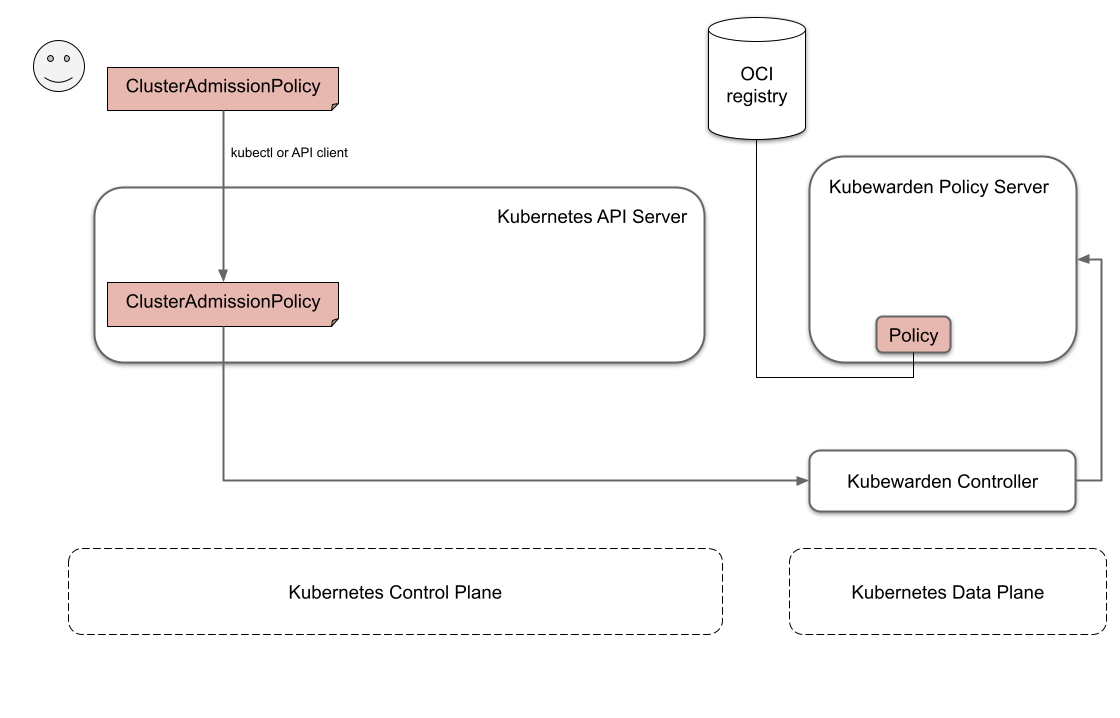
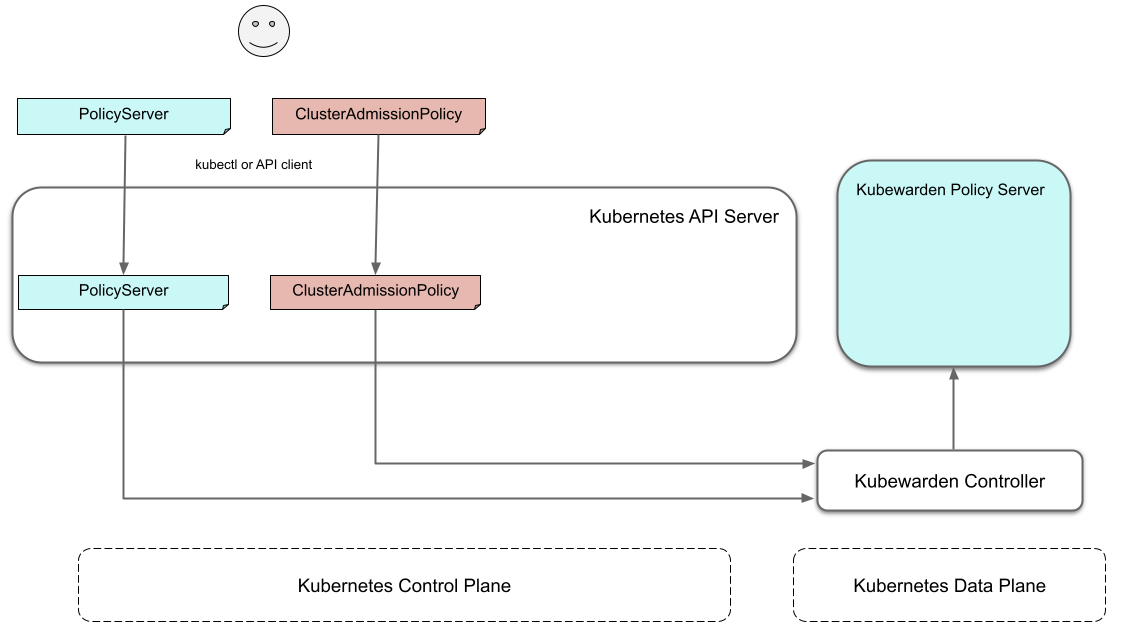
Update the "architecture" section
- architecture section
- architecture new images

diff --git a/src/architecture.md b/src/architecture.md
@@ -41,19 +41,14 @@ the Kubewarden stack:
 The architecture diagram from above can be intimidating at first, this
 section explains it step by step.
 
-### Defining the first policy
+### Default Policy Server
 
-On a fresh new cluster, the only Kubewarden components defined are its Custom
-Resources and the `kubewarden-controller` Deployment.
-
-This chart shows what happens when the first policy is defined inside of the
-cluster:
+On a fresh new cluster, the Kubewarden components defined are its Custom
+Resources, the `kubewarden-controller` Deployment and a default `PolicyServer`.
 
 ![Defining the first ClusterAdmissionPolicy resource](/images/architecture_sequence_01.png)
 
-`kubewarden-controller` notices the new `ClusterAdmissionPolicy` resource and,
-as a result of that, it initializes the `policy-server` component.
-
+`kubewarden-controller` notices the default `PolicyServer` resource and, as a result of that, it initializes the `policy-server` component.
 As stated above, Kubewarden works as a Kubernetes Admission Webhook. Kubernetes
 dictates that all the Webhook endpoints must be secured with TLS.
 `kubewarden-controller` takes care of setting up this secure communication
@@ -61,19 +56,29 @@ by doing these steps:
 
 1. Generate a self-signed Certificate Authority
 1. Use this CA to generate a TLS certificate and a TLS key for the
-  `policy-server` Service.
+   `policy-server` Service.
 
 All these objects are stored into Kubernetes as Secret resources.
-
-`kubewarden-controller` then creates a ConfigMap that
-holds the configuration of `policy-server`. This configuration includes
-the policy defined inside of the `ClusterAdmissionPolicy` resource.
 
 Finally, `kubewarden-controller` will create the `policy-server`
 Deployment and a Kubernetes ClusterIP Service to expose it inside of
 the cluster network.
 
-### Initialization of `policy-server`
+### Defining the first policy
+
+This chart shows what happens when the first policy bounded to the default `policy-server` is defined inside of the
+cluster:
+
+![Defining the first ClusterAdmissionPolicy resource](/images/architecture_sequence_02.png)
+
+`kubewarden-controller` notices the new `ClusterAdmissionPolicy` resource and,
+as a result of that, it finds the bounded `PolicyServer` and reconciles it.
+
+### Reconciliation of `policy-server`
+
+When a `ClusterAdmissionPolicy` is created, modified or deleted a reconciliation loop for the `PolicyServer` is
+triggered inside the `kubewarden-controller`. In this reconciliation loop, a ConfigMap with all the polices bounded to 
+this `PolicyServer` is created. Then the `policy-server` is updated with the new configuration.
 
 At start time, `policy-server` reads its configuration and downloads
 all the Kubewarden policies. Policies can be downloaded from remote
@@ -105,7 +110,7 @@ naming convention: `/validate/<policy ID>`.
 This is how the cluster looks like once the initialization of `policy-server`
 is completed:
 
-![policy-server initialized](/images/architecture_sequence_02.png)
+![policy-server initialized](/images/architecture_sequence_03.png)
 
 ### Making Kubernetes aware of the policy
 
@@ -114,7 +119,7 @@ The `policy-server` Pods have a
 `kubewarden-controller` relies on that to know when the `policy-server` Deployment
 is ready to evaluate admission reviews.
 
-Once the `policy-server` Deployed is marked as `Ready`, `kubewarden-controller`
+Once the `policy-server` Deployment is marked as `Ready`, `kubewarden-controller`
 will make the Kubernetes API server aware of the new policy by creating either a
 `MutatingWebhookConfiguration` or a `ValidatingWebhookConfiguration`
 object.
@@ -123,14 +128,14 @@ Each policy has its dedicated `MutatingWebhookConfiguration`/`ValidatingWebhookC
 which points to the Webhook endpoint served by `policy-server`. The endpoint
 is reachable by the `/validate/<policy ID>` URL mentioned before.
 
-![Kubernetes Webhook endpoint configuration](/images/architecture_sequence_03.png)
+![Kubernetes Webhook endpoint configuration](/images/architecture_sequence_04.png)
 
 ### Policy in action
 
 Now that all the plumbing has been done, Kubernetes will start sending the
 relevant Admission Review requests to the right `policy-server` endpoint.
 
-![Policy in action](/images/architecture_sequence_04.png)
+![Policy in action](/images/architecture_sequence_05.png)
 
 `policy-server` receives the Admission Request object and, based on the
 endpoint that received the request, uses the right policy to evaluate it.
@@ -141,17 +146,26 @@ policy (the "guest") is done using the waPC communication protocol. This is
 covered in depth inside of [this](/writing-policies/index.html)
 section of the documentation.
 
-## How multiple policies are handled
+## How multiple policy servers and policies are handled
 
-A cluster can have multiple Kubewarden policies defined. This leads
-back to the initial diagram:
+A cluster can have multiple policy servers and Kubewarden policies defined. 
+
+Benefits of having multiple policy servers:
+- "noisy" Namespaces/Tenants generating lots of policy evaluations can be isolated from the rest of the cluster and do not affect other users.
+- You can run mission critical policies inside of a Policy Server "pool", making your whole infrastructure more resilient.
+
+Each `policy-server` is defined via its own `PolicyServer` resource and each policy is defined via its own
+`ClusterAdmissionPolicy` resource. 
+
+This leads back to the initial diagram:
 
 ![Full architecture](/images/architecture.png)
 
-Each policy is defined via its own `ClusterAdmissionPolicy` resource. All of
-them are loaded by the same instance of `policy-server`.
+A `ClusterAdmissionPolicy` is bounded to a `PolicyServer`. `ClusterAdmissionPolicies` that don't specify any `PolicyServer`
+will be bounded to the default `PolicyServer`. If a `ClusterAdmissionPolicy` references a `PolicyServer` that doesn't
+exist, it will be in an `unschedulable` state.
 
-`policy-server` defines multiple validation endpoints, one per policy defined
+Each `policy-server` defines multiple validation endpoints, one per policy defined
 inside of its configuration file. It's also possible to load the same policy
 multiple times, just with different configuration parameters.
 
